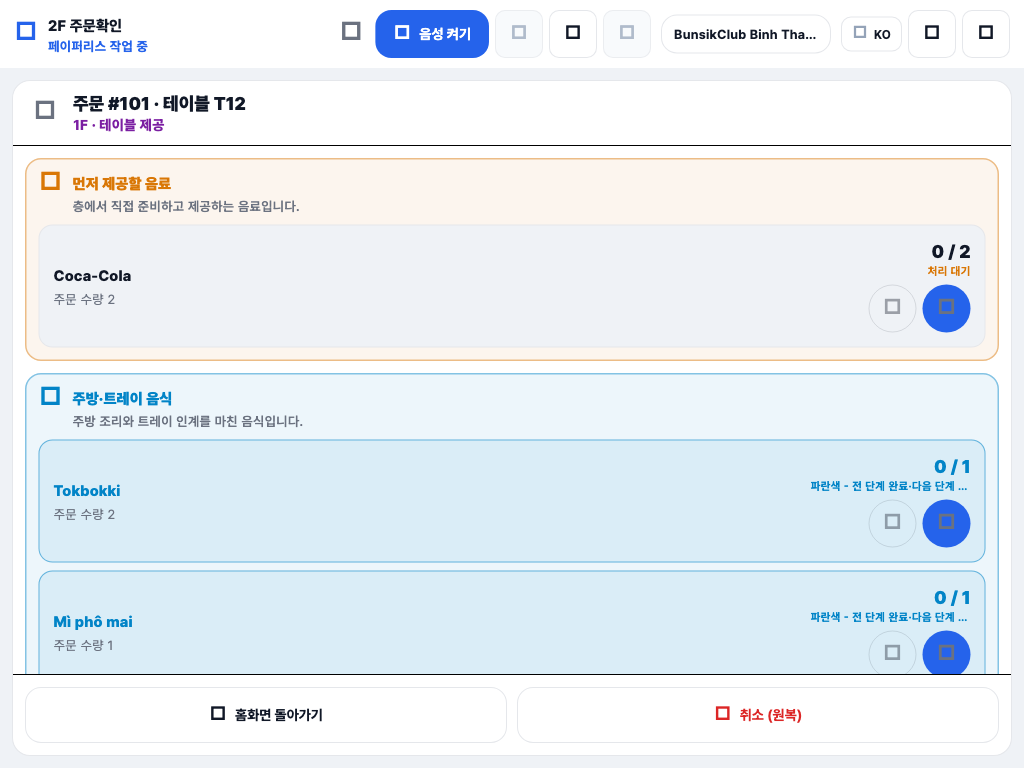
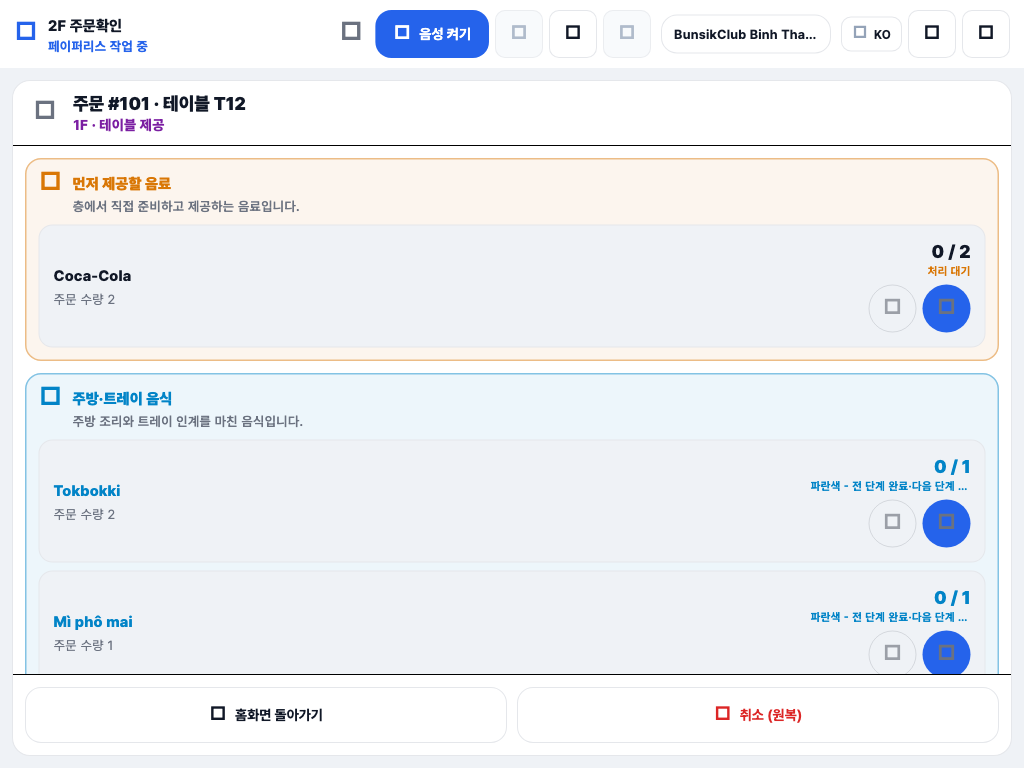
test: keep KDS goldens platform-stable

Changed region(s): [[0.0312, 0.7188, 0.9688, 0.75]]

diff --git a/lib/features/emergency_fulfillment/emergency_fulfillment_screen.dart b/lib/features/emergency_fulfillment/emergency_fulfillment_screen.dart
@@ -1573,20 +1573,10 @@ class _EmergencyMenuRow extends StatelessWidget {
               decoration: BoxDecoration(
                 color: disabledAtStation
                     ? PosColors.border.withValues(alpha: 0.35)
-                    : done
-                    ? PosColors.success.withValues(alpha: 0.08)
-                    : readyFromPreviousStage
-                    ? PosColors.info.withValues(alpha: 0.08)
                     : PosSurfaceRole.background.fill,
                 borderRadius: BorderRadius.circular(14),
                 border: Border.all(
-                  color: item.needsReview
-                      ? PosColors.danger
-                      : done
-                      ? PosColors.success.withValues(alpha: 0.55)
-                      : readyFromPreviousStage
-                      ? PosColors.info.withValues(alpha: 0.55)
-                      : PosColors.border,
+                  color: item.needsReview ? PosColors.danger : PosColors.border,
                 ),
               ),
               child: compact
